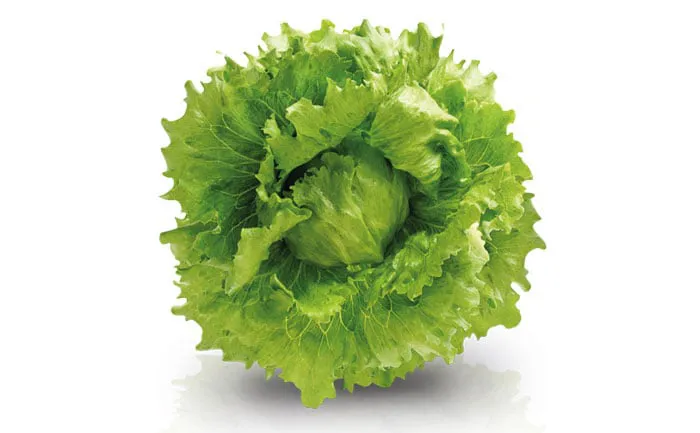
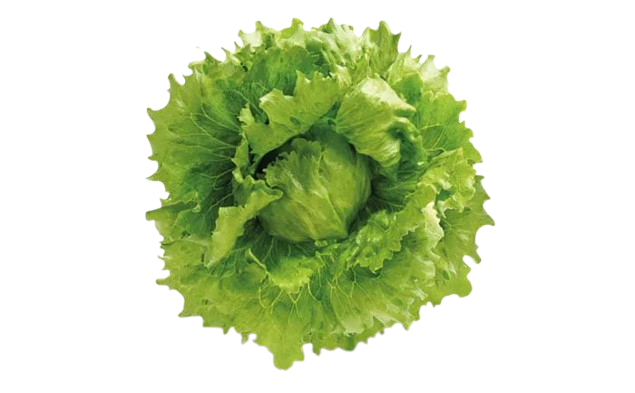
update verculturas html & css
formatação da página e imagens sem background

diff --git a/app_soli/templates/verculturas.html b/app_soli/templates/verculturas.html
@@ -11,6 +11,7 @@
     <link rel="stylesheet" href="https://cdn.jsdelivr.net/npm/bootstrap-icons@1.11.3/font/bootstrap-icons.min.css">
     <script src="{% static 'js/scripts.js' %}"></script>
 </head>
+
 <body>
     <div class="container">
         {% include 'header.html' %}
@@ -31,24 +32,24 @@
 
             <p id="no-results">Nenhuma cultura foi encontrada.</p>
 
-            <div id="culturas-results">
+            <div id="culturas-results" class="culturas">
                 {% for cultura in culturas %}
                 <div class="culturas-card" id="cultura-{{ cultura.id }}">
                     <h2 class="cultura-nome">{{ cultura.nome }} - {{ cultura.data_plantio|date:"d/m/Y" }}</h2>
-                    <img 
-                    src="{% static 'img/' %}{{ cultura.nome|lower }}.png" 
-                    alt="{{ cultura.nome }}" 
-                    class="cultura-imagem"
-                    style="max-width: 150px; height: auto; margin: 10px 0;">
-                    <p class="cultura-area">Área: {{ cultura.area }}</p>
-                    <p class="cultura-linha">Linhas: {{ cultura.linha }}</p>
-                    <p class="cultura-data-plantio">
-                        Data de Plantio: <input type="date" class="data-plantio" value="{{ cultura.data_plantio|date:'Y-m-d' }}" disabled>
-                    </p>
-                    <p class="cultura-data-colheita">
-                        Data de Colheita: <input type="date" class="data-colheita" value="{{ cultura.data_colheita|date:'Y-m-d' }}" disabled>
-                    </p>
-                    <p class="tempo-restante">Tempo restante: {{ cultura.tempo_restante }}</p>
+                    <div class="hold_culturas-dados">
+                        <div class="culturas-dados">
+                            <p class="cultura-area">Área: {{ cultura.area }}</p>
+                            <p class="cultura-linha">Linhas: {{ cultura.linha }}</p>
+                            <p class="cultura-data-plantio">
+                                Data de Plantio: <input type="date" class="data-plantio" value="{{ cultura.data_plantio|date:'Y-m-d' }}" disabled>
+                            </p>
+                            <p class="cultura-data-colheita">
+                                Data de Colheita: <input type="date" class="data-colheita" value="{{ cultura.data_colheita|date:'Y-m-d' }}" disabled>
+                            </p>
+                            <p class="tempo-restante">Tempo restante: {{ cultura.tempo_restante }}</p>
+                        </div>
+                        <img src="{% static 'img/' %}{{ cultura.nome|lower }}.png" alt="{{ cultura.nome }}" class="cultura-imagem" style="max-width: 180px; height: auto; margin: 10px 0;">
+                    </div>
                     <p>Progresso:</p>
                     <div class="progress-bar">
                         <div class="progress-bar-fill" style="width: {{ cultura.progresso }}%"></div>

diff --git a/app_soli/static/css/verculturas.css b/app_soli/static/css/verculturas.css
@@ -42,9 +42,11 @@ body {
 
 .tab-button {
     padding: 10px 20px;
-    border-radius: 25px; /* Bordas arredondadas */
+    border-radius: 25px;
+    /* Bordas arredondadas */
     border: none;
-    background-color: #D9D9D9; /* Cor de fundo da aba inativa */
+    background-color: #D9D9D9;
+    /* Cor de fundo da aba inativa */
     color: #333;
     font-weight: bold;
     cursor: pointer;
@@ -55,9 +57,12 @@ body {
 }
 
 .tab-button.active {
-    background-color: #A9A9A9; /* Cor da aba ativa */
-    color: white; /* Cor do texto da aba ativa */
-    box-shadow: 0 4px 10px rgba(0, 0, 0, 0.1); /* Sombra para destacar a aba ativa */
+    background-color: #A9A9A9;
+    /* Cor da aba ativa */
+    color: white;
+    /* Cor do texto da aba ativa */
+    box-shadow: 0 4px 10px rgba(0, 0, 0, 0.1);
+    /* Sombra para destacar a aba ativa */
 }
 
 .tab-button:hover {
@@ -100,6 +105,26 @@ body {
     text-align: center;
 }
 
+.hold_culturas-dados {
+    display: flex;
+    align-items: center;
+    justify-content: space-between;
+}
+
+.cultura-imagem {
+    max-width: 120px;
+    height: auto;
+    margin: 10px 0;
+}
+
+.culturas-dados {
+    margin-right: 20px;
+}
+
+.culturas-dados p {
+    margin: 5px 0;
+}
+
 /* Campo de busca */
 .search-box {
     display: flex;
@@ -136,7 +161,8 @@ body {
     width: 100%;
     margin-top: 2rem;
     font-size: larger;
-    color: #e57373; /* Cor de destaque para mensagens de "Nenhuma cultura foi encontrada" */
+    color: #e57373;
+    /* Cor de destaque para mensagens de "Nenhuma cultura foi encontrada" */
 }
 
 /* Ícones SVG */
@@ -197,6 +223,7 @@ footer nav a {
     padding: 5px;
     background-color: #f0f8ff;
 }
+
 .botao {
     display: flex;
     width: 200px;
@@ -208,21 +235,27 @@ footer nav a {
     font-weight: bold;
     margin-bottom: 20px;
 }
-.parte-esquerda, .parte-direita {
+
+.parte-esquerda,
+.parte-direita {
     flex: 1;
     display: flex;
     align-items: center;
     justify-content: center;
 }
+
 .ativo .parte-esquerda {
     background-color: #666;
 }
+
 .ativo .parte-direita {
     background-color: transparent;
 }
+
 .botao:hover {
     background-color: #bbb;
 }
+
 #no-results {
     display: none;
     color: red;
